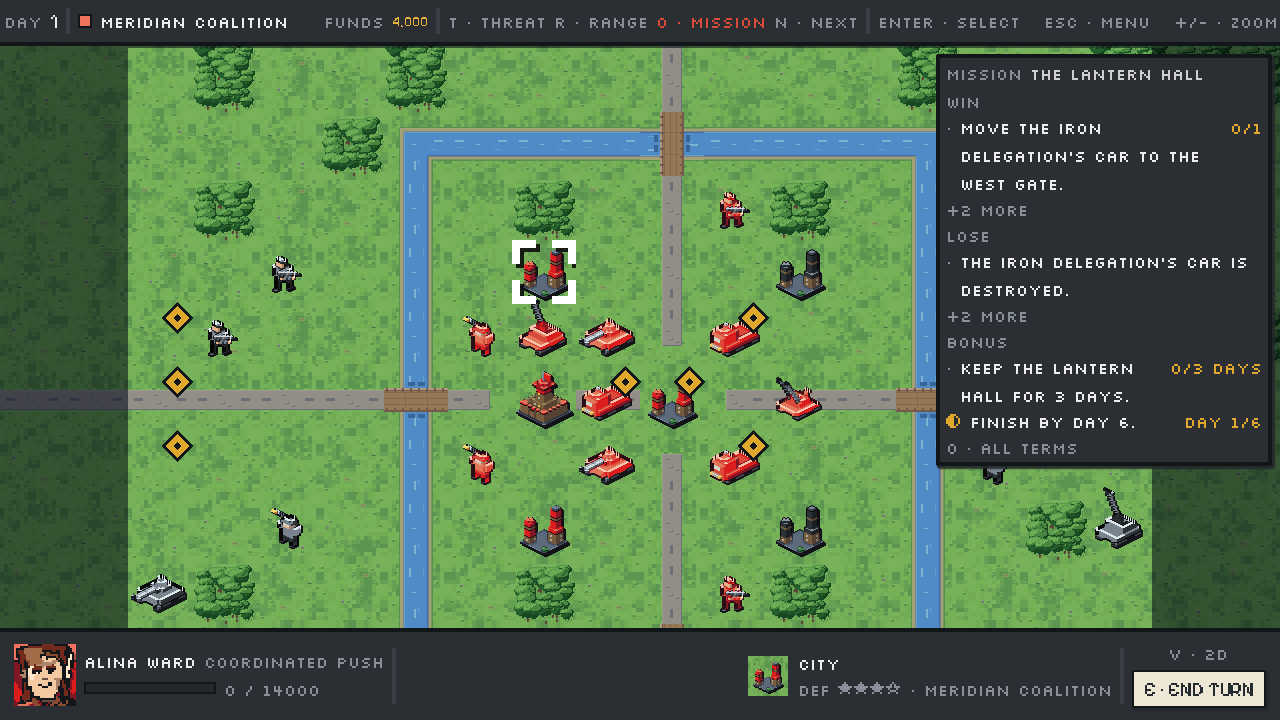
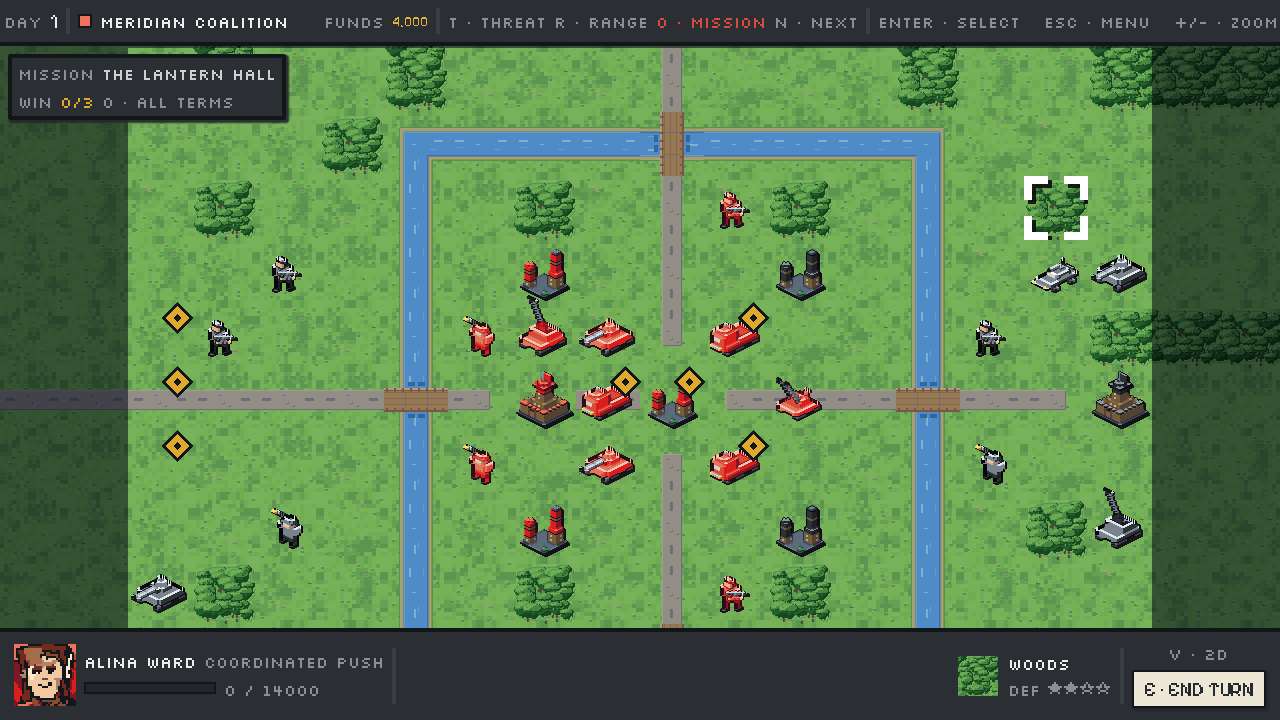
Print the mission card compact when no corner clears the goals
In a band about 291 px high the corners of a card with a few rows
overlap across the middle, so the cursor or a goal square sat under
every corner and the card parked on the cheapest one. When no corner of
the full or short form is clear, the card now prints its title and
'WIN n/m · O · ALL TERMS'. compact_for is the pure rule, pinned by GUT.

diff --git a/docs/testing_exceptions.md b/docs/testing_exceptions.md
@@ -158,7 +158,7 @@ subclass whose suite calls only its statics:
 | `UnitSprite` (`Sprite2D`) | `test_figure_sheet.gd`, `test_ambient_frames.gd`, `test_move_frames.gd`, `test_anim_manifest.gd` | `texture_for`, `figure_texture_for`, `facing_for`, and the `UNITS_ATLAS_*` sheet paths against the cell metrics (`SPRITE_W`, `SPRITE_H`, `SPRITE_OVERFLOW`, `CELL_GROUND_PX`) — atlas regions and file names, so a sheet regenerated on one side of a clip is caught without a sprite |
 | `MapPicker` (`VBoxContainer`) | `test_map_picker.gd` | `cell_name`, `caption_text`, `armies_label`, `fullest`, `is_custom`, `random_index` — the picker's words, all pure over a `MapData` |
 | `ActionMenu` (`PanelContainer`) | `test_action_menu_icon.gd`, `test_action_menu_window.gd` | `icon_cap`, and `visible_window` / `rows_that_fit` — the scrolling window a build menu becomes in the band a touch build leaves it |
-| `MissionObjectivesPanel` (`PanelContainer`) | `test_objective_card_dock.gd` | `dock_for` — which corner the objectives card parks in, geometry and nothing else |
+| `MissionObjectivesPanel` (`PanelContainer`) | `test_objective_card_dock.gd` | `dock_for` and `compact_for` — which corner the objectives card parks in and when it prints compact, geometry and nothing else |
 | `MobileDock` (`PanelContainer`) | `test_mobile_dock.gd` | `chrome_h`, `height`, `board_lift_px` — the mobile plan's D5, that a desktop build's pixels do not move, stated as arithmetic |
 | `TouchTarget` (`Control`) | `test_touch_target.gd` | `inflation` — how far a control drawn smaller than a finger may grow, and where two neighbours have to stop |
 

diff --git a/.claude/rules/campaign.md b/.claude/rules/campaign.md
@@ -97,7 +97,10 @@ root index are in `docs/design_record.md`.
   (playtest CA-01): a list too tall for the band prints short — each group's first open condition
   and a count of the rest — and O opens the whole list, wider, before it lowers the card; the
   pause menu's row only raises or lowers it. It parks in whichever band corner covers neither the
-  cursor nor a square `BattleCampaign.objective_cells` names. A met condition the side must keep
+  cursor nor a square `BattleCampaign.objective_cells` names, and when no corner is clear it prints
+  **compact** — the title and `WIN n/m · O · ALL TERMS` — because in a band that short the corners
+  of a card of a few rows overlap across the middle (`compact_for` is the rule, and the player's own
+  O for the whole list is the one form that may still cover a goal). A met condition the side must keep
   until the verdict (`MissionObjective.holds_until_verdict`) wears `◐`, never a tick.
   **The card says what to do and the board says where**: all 317 objective strings were rewritten to
   one convention — the verb names the mechanic, a failure states the loss in the present, every
